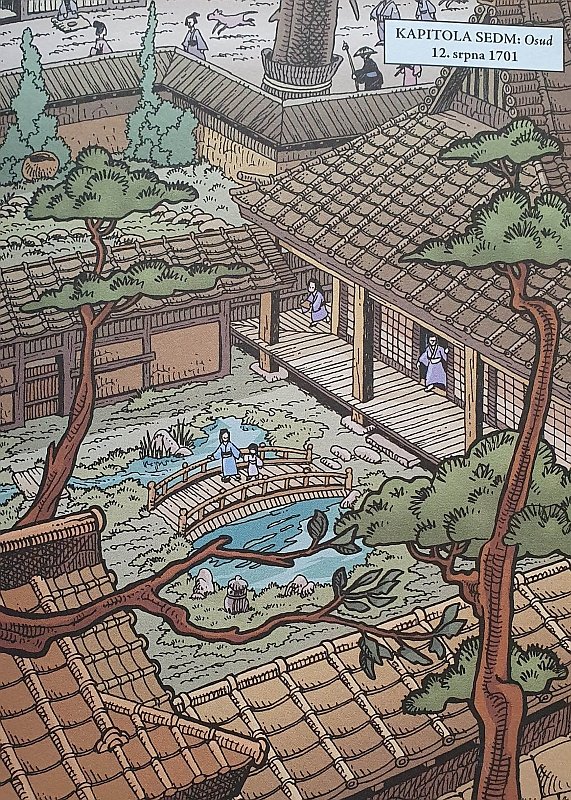
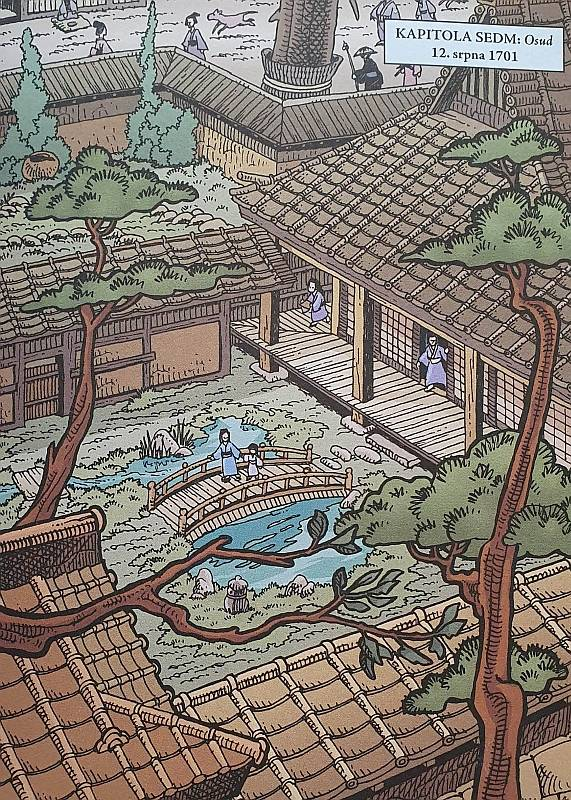
PNG to JPG and reduced size of some images

diff --git a/_posts/2024-10-31-carrying-the-fire.md b/_posts/2024-10-31-carrying-the-fire.md
@@ -14,7 +14,7 @@ I recently read a book [Carrying the Fire: An Astronaut's Journeys by Michael Co
 
 > Of course, Apollo was the god who carried the fiery sun across the sky in a chariot, but beyond that -- how would you carry fire? Carefully, that's how, with lots of planning and at considerable risk. It is a delicate cargo, as valuable as moon rocks, and the carrier must constantly be on his toes lest it spill. I carried the fire for six years and now I would like to tell you about it, simply and directly as a test pilot must, for the trip deserves the telling.  -- Michael Collins
 
-![Carrying the Fire book cover](/img/collins-carrying-the-fire.png)
+![Carrying the Fire book cover](/img/collins-carrying-the-fire.jpg)
 
 I really enjoyed this book, mostly for great detail and personal take on how to become an astronaut when there was a very little idea of what will be required. The first US flight to space took place on May 5, 1961. Alan Shepard in Freedom 7 Mercury capsule powered by Redstone booster reached altitude of 187 kilometers. Michael Collins joined NASA two years later as part of third group of astronauts.
 

diff --git a/_posts/2024-12-29-reacher-the-secret.md b/_posts/2024-12-29-reacher-the-secret.md
@@ -10,7 +10,7 @@ tags:
 ---
 I got [this book][1] as a Christmas gift and finished it within few days. I don't have too much to compare against as it is just my second book from Jack Reacher universe. The other was [No Plan B][2] which caught my eye on an airport and I liked the style.
 
-![The Secret](/img/the-secret.png)
+![The Secret](/img/the-secret.jpg)
 
 The narrative follows several people. There are two sisters that go after scientists connected to twenty years old secret project. There is Secretary of Defense, Charles Stamoran, who tries to protect the scientists and establishes a task force to find the murderers. The task force, put together from Army, CIA, FBI, and Treasury. They are trying to figure out the motives, connect the dots and protect those remaining.
 

diff --git a/_posts/2025-01-04-project-hail-mary.md b/_posts/2025-01-04-project-hail-mary.md
@@ -9,7 +9,7 @@ tags:
 ---
 Another Christmas book - [Project Hail Mary by Andy Weir][1]. A nice sci-fi from near future that really lives up to the science part of the term. 
 
-![Project Hail Mary](/img/project-hail-mary.png)
+![Project Hail Mary](/img/project-hail-mary.jpg)
 
 A man with amnesia wakes up in a small room with a robot that takes care of him, but refuses to let him to other room until he recollects his name. He is trying to figure out who he is, realizing he has some physics knowledge, thinks in imperial units, but cannot get much else. Except for the robot, only other things in the room are two bunks with corpses in them.
 
